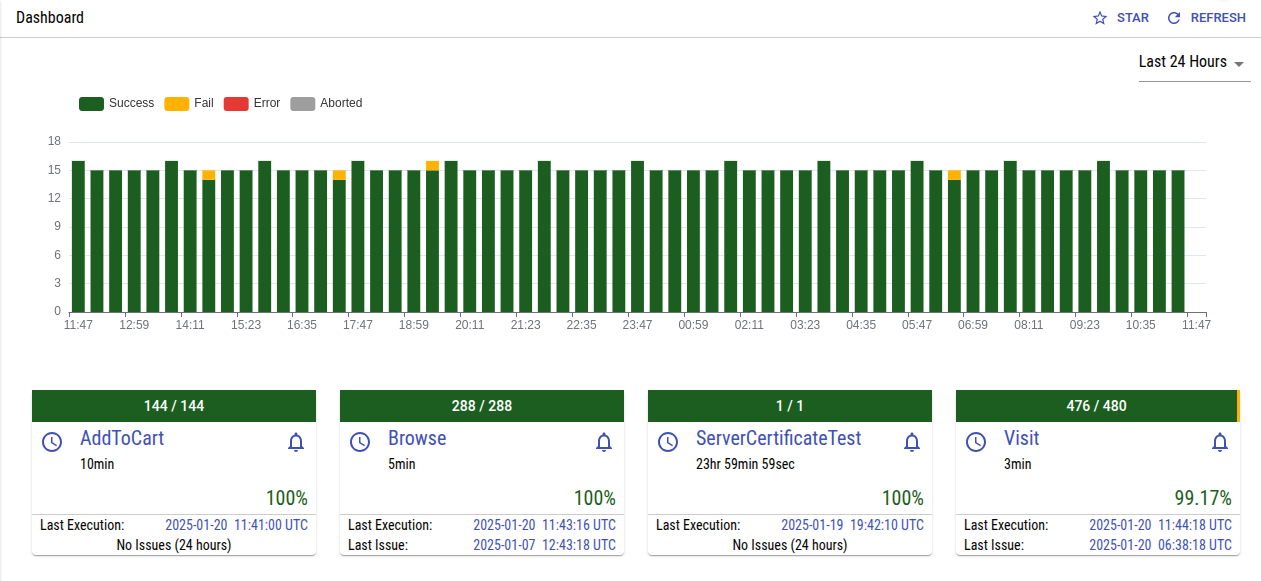
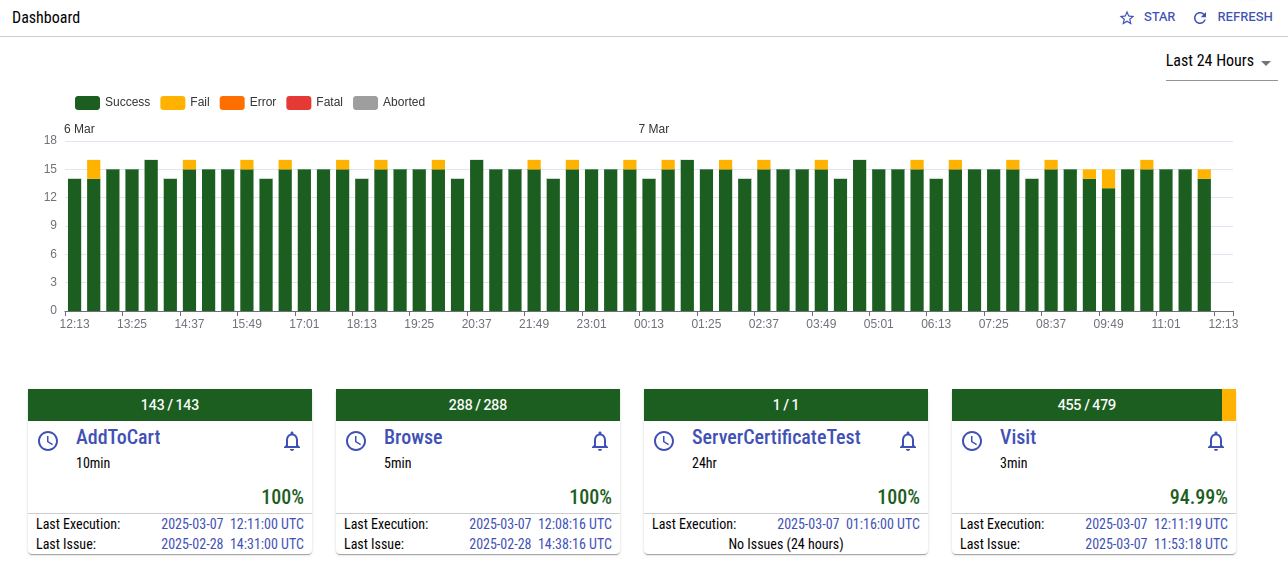
Updates xtc94 96 (#270)
* XTC keyboard shortcuts
* custom data logger
* changed scenario execution statuses (+new status "fatal")
* XTC screenshot updates

diff --git a/content/en/xtc/monitoring/460-history.md b/content/en/xtc/monitoring/460-history.md
@@ -24,7 +24,7 @@ The history view of a monitoring project. The context menu allows you to view de
 
 In addition to the time range you select at the top, the histogram and the scenario executions table can be filtered for several criteria. 
 
-In the **histogram**, you can enable or disable scenario executions that were successful, failed, returned an error, were aborted or are currently running by clicking the buttons at the top left. By hovering the histogram entries, you will see more details about the timespan covered by a given entry and the actual number of executions for each selected status during this timespan.
+In the **histogram**, you can enable or disable scenario executions with the [status]({{< relref "#execution-statuses" >}}) _successful_, _fail_, _error_, _fatal_, _aborted_ or _running_ by clicking the buttons at the top left. By hovering the histogram entries, you will see more details about the timespan covered by a given entry and the actual number of executions for each selected status during this timespan.
 
 {{< image src="xtc/monitoring_history_histogram.png" >}}
 The histogram in the history view. You can select a time range to display and which statuses to be displayed.
@@ -34,11 +34,31 @@ The histogram in the history view. You can select a time range to display and wh
 The histogram will only contain entries that also appear in the table, so make sure the data you want to view (e.g. successful scenario executions) are also visible below.
 {{% /note %}}
 
-In the **table** below the histogram you can search directly for scenario names and filter by execution statuses, scenarios, or monitoring locations.
+In the **table** below the histogram you can search directly for scenario names and filter by [execution statuses]({{< relref "#execution-statuses" >}}), [quality sensor states]({{< relref "#quality-sensor-states" >}}), scenarios, or monitoring locations.
 
 {{< image src="xtc/monitoring_history_table.png" >}}
 The scenario executions table in the history view. At the top of the table you have different possibilities for filtering.
 {{< /image >}}
+
+### Execution Statuses
+
+Every scenario execution has a status, which can be one of the following:
+
+* **Success**: The scenario was successfully executed without errors, all success metrics were met.
+* **Failed**: The scenario ran to completion but additional [quality criteria]({{< relref "430-scenarios/#quality-sensors" >}}) were not met (e.g. Web vital thresholds were exceeded).
+* **Error**: The scenario was executed but terminated prematurely with an error (for example, an assertion error).
+* **Fatal**: The monitoring scenario could not be executed at all (e.g. due to compilation errors in the test suite).
+* **Aborted**: The monitoring scenario was aborted before the execution terminated, e.g. because the [maximum runtime]({{< relref "430-scenarios/#execution" >}}) was exceeded.
+* **Running**: The scenario execution is still in progress; the state will change as soon as it terminates.
+
+### Quality Sensor States
+
+In addition to the state of the scenario execution status, the quality sensors also return a state after scenario execution:
+
+* **Passed**: All success metrics defined in the scenario's quality sensor(s) were met.
+* **Failed**: One or more success metrics were not met.
+* **None**: No success metrics are defined.
+* **Unknown**: The success metrics for the scenario have not been evaluated, either because the scenario is still running or because it could not run at all (fatal).
 
 ## Scenario Details
 
@@ -51,7 +71,3 @@ Detail view of a scenario that finished with errors. You will get the complete s
 {{< image src="xtc/monitoring_history_detailsS.png" >}}
 Detail view of a successful scenario run with more information. 
 {{< /image >}}
-
-{{% note notitle %}}
-Note that not meeting one of the success metrics does not necessarily cause the scenario execution to fail. Learn more in [quality sensors]({{< relref "420-monitoring-configuration/#quality-sensors" >}}).
-{{% /note %}}

diff --git a/content/en/xlt/load-testing/Advanced/050-custom-data.md b/content/en/xlt/load-testing/Advanced/050-custom-data.md
@@ -13,10 +13,11 @@ description: >
 
 XLT [captures a lot of data]({{< relref "150-results" >}}) out of the box, and since it's using open data formats (xml/csv) it is well fitted for custom analytics and reporting. In addition to the recorded information about transactions, actions, and requests being executed as well as event information you can also get
 
-* custom events,
-* custom timers,
-* custom values and
-* external data. 
+* [custom events]({{< relref "#custom-events" >}}),
+* [custom timers]({{< relref "#custom-timers" >}}),
+* [custom values]({{< relref "#custom-values" >}}),
+* [custom data logs]({{< relref "#custom-data-logs" >}}) and
+* [external data]({{< relref "#external-data" >}}). 
 
 This page shows you how to add the different kinds of custom information to your test scenarios. To learn more about the format and contents of the recorded csv data and the meaning of every column depending on the data record type, see [Result Data]({{< relref "150-results" >}}). 
 
@@ -203,6 +204,42 @@ XLT will then take care to execute your sampler regularly. It will show up in th
 {{< image src="user-manual/custom_samplers.png">}}
 Custom Samplers in the Test Report
 {{< /image >}}
+
+## Custom Data Logs
+
+When load testing, we often need to pass test data such as usernames, SKUs, coupon codes, or the like. Sometimes we want to know in retrospect which data items were actually used during a load test. For this purpose, XLT offers the *Custom Data Logger*. This feature allows you to log custom data lines in different scopes using a simple API. A scope is a custom string that describes the data to be logged, for example "users" or "skus". All data lines logged in a given scope are grouped together.
+
+A data line must be a string, but the format of the line is unspecified. It can be a single value, a structured data record such as CSV, or any other custom format. You can specify the extension of the resulting data files to reflect the format used (`*.log` by default). You can also specify a file header. See below for an example of how to set up the data logger for the "users" scope to use a CSV file:
+
+```java
+// one-time setup before first use
+DataLogger logger = Session.getCurrent().getDataManager().dataLogger("users");
+logger.setExtension("csv");
+logger.setHeader("username,password,email");
+```
+
+Logging a corresponding user data line in the "users" scope is done in this way:
+
+```java
+Session.getCurrent().getDataManager().dataLogger("users").log("tmayer,9sadfasdf28a,thomas.mayer@example.com");
+
+// same as above, but less boilerplate
+Session.logData("users", "tmayer,9sadfasdf28a,thomas.mayer@example.com");
+```
+
+Data lines are written to separate files in the `results` directory, grouped by test user and scope. For example:
+
+```
+ac0001_us-central1_00/TCheckout/45/custom_log_users.csv
+ac0001_us-central1_00/TCheckout/45/custom_log_skus.log
+```
+
+Custom data is also made available in the load test report, in the *Custom Data Logs* section on the *Custom Data* report page. Since the number of logged data lines can be huge, they are not directly viewable, but the report provides links to download the data as a ZIP archive file, one for each scope. The archive files are located in the `custom_data_logs` directory in the report. For example:
+
+```
+custom_data_logs/users.zip
+custom_data_logs/skus.zip
+```
 
 ## External Data
 

diff --git a/content/en/xlt/load-testing/Manual/320-test-evaluation.md b/content/en/xlt/load-testing/Manual/320-test-evaluation.md
@@ -159,9 +159,13 @@ The Page Load Timings section offers deeper insight into the page loading perfor
 These timings will be recorded only when using `XltChromeDriver` or `XltFirefoxDriver` to run the browser. These are special WebDriver implementations that install an extension into the browser which is able to gather all the timings and report them to XLT.
 {{% /note %}}
 
-### Custom Timers & Values
+### Custom Timers
 
-The custom timers includes all timers that have been placed individually within the test code. The chart and data description is identical to the request section. In case custom samplers have been run during the test, the collected data is shown in the *Custom Values* section.
+The _Custom Timers_ page includes all [timers]({{< relref "../advanced/050-custom-data/#custom-timers" >}}) that have been placed individually within the test code. The chart and data description is identical to the _Actions_ section.
+
+### Custom Data
+
+The _Custom Data_ page contains two sections. In case [custom samplers]({{< relref "../advanced/050-custom-data/#custom-values" >}}) have been run during the test, or if your test scenarios are instrumented to log custom values, the collected data is shown in the *Custom Values* section. If the test scripts have also been collecting [custom data logs]({{< relref "../advanced/050-custom-data/#custom-data-logs" >}}), they will be available for download in the _Custom Data Logs_ section.
 
 ### Web Vitals 
 
@@ -169,7 +173,7 @@ If the load test was run as an [automated client performance test]({{< relref "6
 
 ### External Data
 
-All external data gathered by other tools during the test run is shown here according to the configuration. See [Custom Data]({{< relref "../advanced/050-custom-data/" >}}) for details on how to include external data in the report.
+All [external data]({{< relref "../advanced/050-custom-data/#external-data" >}}) gathered by other tools during the test run is shown here according to the configuration. 
 
 ### Errors
 

diff --git a/content/en/xtc/monitoring/420-monitoring-configuration.md b/content/en/xtc/monitoring/420-monitoring-configuration.md
@@ -132,9 +132,9 @@ When you are finished configuring quality sensors, you can [assign them to your 
 
 In a simple project, the quality sensors might look like this:
 
-* **Preparation**: Verifies that the scenario is ready to run and notifies the Monitoring Dev Team list if necessary. Blocks the execution of the following quality sensors. (e.g. execution errors)
-* **Stability**: Verifies that the scenario has run successfully and otherwise notifies the On-Call Team list and possibly the Monitoring Dev Team list. Blocks the execution of the following quality sensors. (e.g. test failures)
-* **Performance**: Verifies that selected performance parameters are within specified limits. If not, notifies the App Dev Team. (e.g. runtime thresholds) {{< TODO >}}Are these good example metrics or what is meant instead??{{< /TODO >}}
+* **Preparation**: Verifies that the scenario is ready to run and notifies the Monitoring Dev Team list if necessary. Blocks the execution of the following quality sensors. (e.g. git download failures, compile issues and other [fatal errors]({{< relref "460-history/#execution-statuses" >}}))
+* **Stability**: Verifies that the scenario has run successfully and otherwise notifies the On-Call Team list and possibly the Monitoring Dev Team list. Blocks the execution of the following quality sensors. (e.g. [scenario errors]({{< relref "460-history/#execution-statuses" >}}))
+* **Performance**: Verifies that selected performance parameters are within specified limits. If not, notifies the App Dev Team. (e.g. scenario failures, such as exceeding thresholds for request runtimes, web vitals, DOM events) 
 
 All of these quality sensors are then assigned to each scenario in this order.
 

diff --git a/content/en/xtc/basics/030-ui-structure.md b/content/en/xtc/basics/030-ui-structure.md
@@ -56,6 +56,19 @@ In order to **quickly navigate from a project back to its organization**, use th
 Clicking the link in the sidebar will take you back to a project's organization. 
 {{< /image >}}
 
+## Keyboard Shortcuts
+
+XTC provides a number of useful keyboard shortcuts. Press the <kbd>?</kbd> key to display a list of all available hotkeys:
+
+* Press <kbd>Ctrl</kbd>+<kbd>Alt</kbd>+<kbd>H</kbd> to return to the *User Dashboard* from anywhere in XTC.
+* Press <kbd>Ctrl</kbd>+<kbd>Alt</kbd>+<kbd>O</kbd> or <kbd>Ctrl</kbd>+<kbd>Alt</kbd>+<kbd>P</kbd> to activate the organization or project selection box. Use the <kbd>↑</kbd>/<kbd>↓</kbd> arrow keys to highlight the desired item in the drop-down list item and press <kbd>Enter</kbd> to select it.
+* Most dialogs and forms can be accepted with the <kbd>Alt</kbd>+<kbd>Enter</kbd> shortcut. <kbd>Enter</kbd> alone is not supported, as it is often needed to interact with the currently focused input element. Use the <kbd>Esc</kbd> key to cancel a dialog.
+
+On the details page of a load test the following keyboard shortcuts are available:
+    
+* Press <kbd>Ctrl</kbd>+<kbd>Left</kbd> or <kbd>Ctrl</kbd>+<kbd>Right</kbd> to navigate to the previous or next load test.
+* Press <kbd>Ctrl</kbd>+<kbd>Alt</kbd>+<kbd>S</kbd> to start the current load test.
+
 ## Footer Information
 
 On the right side of the footer XTC is always displaying your role in the organization or project you are currently viewing. You can also find the current XTC version and the Contact/Privacy/Changelog links in the footer.

diff --git a/content/en/xtc/monitoring/410-dashboard.md b/content/en/xtc/monitoring/410-dashboard.md
@@ -8,7 +8,7 @@ description: >
   The starting point and overview for any monitoring project.
 ---
 
-On entering an XTC monitoring project, you will be presented the **Dashboard**, containing a first overview of your application's recent performance: here you will find a histogram visualizing the proportions of all execution results over the last 1-48 hours (in addition to the time window you can filter for successful, failed and aborted runs and runs with errors), the current status for each test scenario, and a quick link to the last issue for each scenario within the last 24 hours. 
+On entering an XTC monitoring project, you will be presented the **Dashboard**, containing a first overview of your application's recent performance: here you will find a histogram visualizing the proportions of all execution results over the last 1-48 hours (in addition to the time window you can filter for execution status: _running_, _successful_, _fail_, _error_, _fatal_, or _aborted_), the current status for each test scenario, and a quick link to the last issue for each scenario within the last 24 hours. 
 
 
 {{< image src="xtc/monitoring_dashboard.png" >}}

diff --git a/content/en/xtc/xtc-release-notes/v94.md b/content/en/xtc/xtc-release-notes/v94.md
@@ -30,7 +30,7 @@ sitemap:
 
 * New keyboard shortcuts are available on the details page of a load test:
     * Press <kbd>Ctrl</kbd>+<kbd>Left</kbd> or <kbd>Ctrl</kbd>+<kbd>Right</kbd> to navigate to the previous or next load test.
-    * Pres <kbd>Ctrl</kbd>+<kbd>Alt</kbd>+<kbd>S</kbd> to start the current load test.
+    * Press <kbd>Ctrl</kbd>+<kbd>Alt</kbd>+<kbd>S</kbd> to start the current load test.
 * XLT has been updated to version 8.6.0, which fixes a caching issue and adds the new Custom Data Logger feature.
 * Currently available XLT execution environments:
     * XLT 8.x → [8.6.0]({{< relref "/xlt/release-notes/8_6_x" >}})
